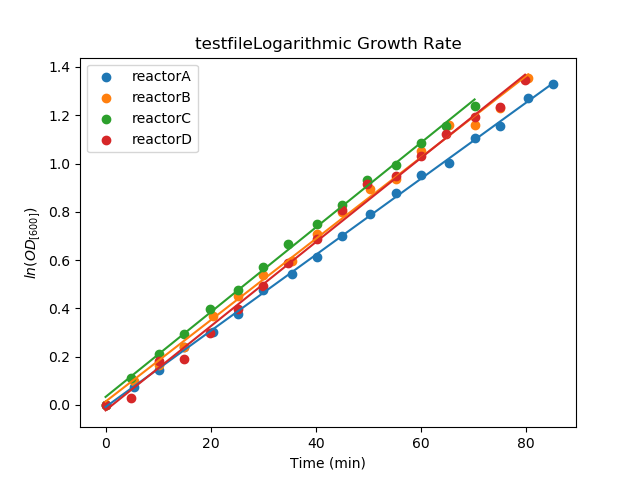
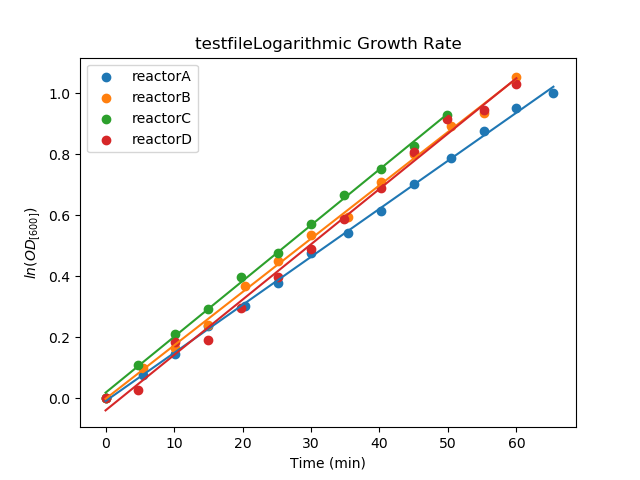
fixed file identification
file to include now .txt instead of .TXT and also added easy way to adjust OD for calculations.

diff --git a/calculations.py b/calculations.py
@@ -77,11 +77,13 @@ def generate_LN_plot(pandas_df, reactorname):
 
 def calculate_growthrate(pandasreactor, reactorname, subreactor_name, allignment_OD):
     '''This function takes ln(OD) between two if statements stored in current_reactor_growthrate'''
+    lowerOD = allignment_OD
+    upperOD = 0.3
     growth_rates = []
     for i in range(0,4):
         name_of_reactor = subreactor_name[i]
         current_reactor = pandasreactor[i]
-        current_reactor_growthrate = current_reactor[(current_reactor['OD'] >= allignment_OD) & (current_reactor['OD'] <0.4)]
+        current_reactor_growthrate = current_reactor[(current_reactor['OD'] >= lowerOD) & (current_reactor['OD'] <upperOD)]
         finaltime_list = []
         #this loop checks that the growth rate is +ve if growth rate turns negative over two measurements it is terminated
         for i in range(0,len(current_reactor_growthrate['OD'])-2):

diff --git a/run.py b/run.py
@@ -12,7 +12,7 @@ print(directory)
 
 ##loop over txt files in subdirectory and generate tables and plots for each txt file
 for files in entries:
-    if ".TXT" in files:
+    if ".txt" in files:
         reactorname = files.split(sep=".")[0]
         reactor = Bioreactor(reactorname, directory)
         reactor.set_data()
